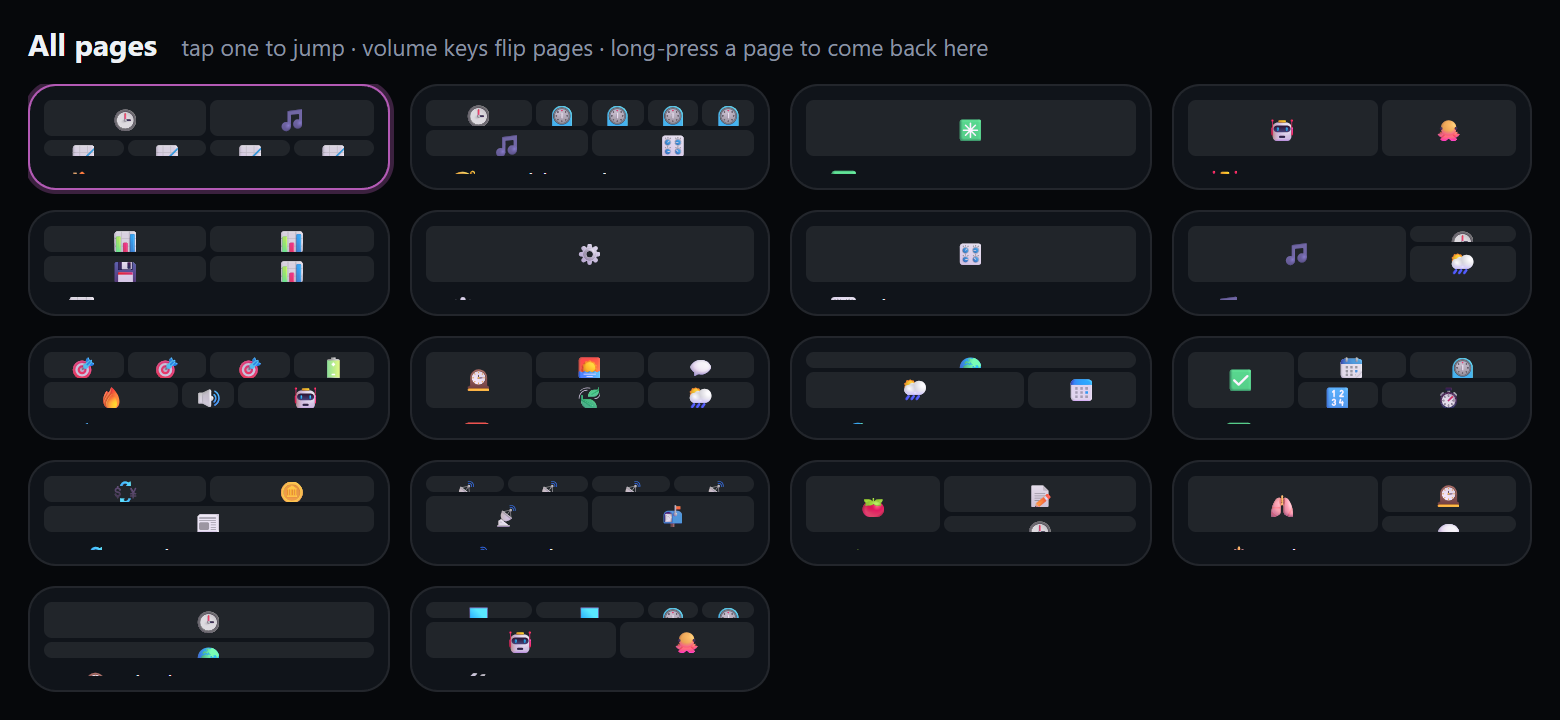
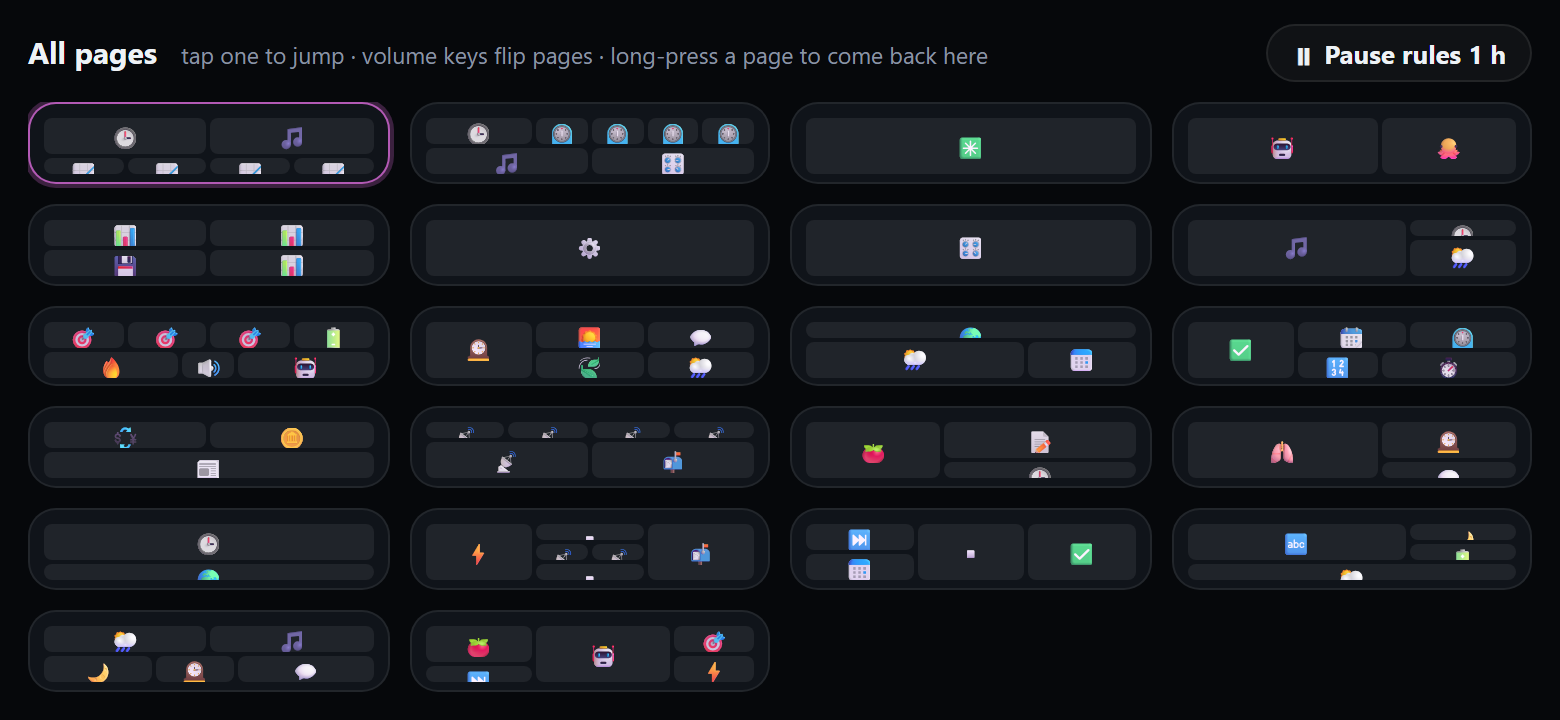
Screenshots of the new templates and the page overview; Next up fits two rows; web demo has every template

diff --git a/tools/pages/demo.js b/tools/pages/demo.js
@@ -18,7 +18,7 @@
     ['snip', 'Snip', '✂', '#14b8a6'], ['taskmgr', 'Task Manager', '📊', '#22c55e'], ['mute', 'Mute', '🔇', '#f59e0b'],
     ['screenoff', 'Screen Off', '🌙', '#8b5cf6'], ['lock', 'Lock', '🔒', '#ef4444'], ['settings', 'Settings', '⚙', '#94a3b8'],
   ].map(([id, label, icon, color]) => ({ id, label, icon, color, cmd: id === 'mute' ? 'builtin:mute' : 'demo' }));
-  const PAGES = ['home', 'dashboard', 'ai', 'work', 'system', 'procs', 'deck', 'music', 'status', 'ambient', 'world', 'daily', 'markets', 'feeds', 'focus', 'calm', 'clock', 'automation', 'planner', 'nightstand'];
+  const PAGES = ['home', 'dashboard', 'ai', 'work', 'system', 'procs', 'deck', 'music', 'status', 'ambient', 'world', 'daily', 'markets', 'feeds', 'focus', 'calm', 'clock', 'automation', 'planner', 'nightstand', 'weekend', 'focuswork'];
 
   let catalog = null;
   async function loadCatalog() {

diff --git a/android/app/src/main/assets/www/style.css b/android/app/src/main/assets/www/style.css
@@ -836,6 +836,8 @@ body.night #night { display: flex; }
 .nu-meta { font-size: 12.5px; color: var(--muted); white-space: nowrap; overflow: hidden; text-overflow: ellipsis; margin-top: auto; }
 .nu-track { margin-top: 6px; }
 .nu-track i { background: var(--nu, rgb(var(--ambient))); }
+.w-nextup > :not(.nu-title) { flex-shrink: 0; }
+@container (max-height: 110px) { .w-nextup .w-title { display: none; } .nu-title { -webkit-line-clamp: 1; font-size: clamp(15px, 14cqh, 22px); } .nu-meta { margin-top: 0; } .nu-track { margin-top: auto; } }
 
 /* ---------- moon ---------- */
 .mo-body { flex: 1; min-height: 0; display: flex; align-items: center; gap: 12px; }

diff --git a/README.md b/README.md
@@ -119,10 +119,13 @@ Every page is a 12 × 6 grid. Start a page from one of the 23 templates (or from
 | <img src="docs/screenshots/daily.png" alt="Daily"> | <img src="docs/screenshots/world.png" alt="World"> |
 | **Music** — a big now-playing card | **Shortcuts** — Stream Deck–style keys |
 | <img src="docs/screenshots/music.png" alt="Music"> | <img src="docs/screenshots/deck.png" alt="Shortcuts"> |
+| **Planner** — next up, month, agenda, checklist | **Automation** — rules, on air, pushed values, device batteries, notifications |
+| <img src="docs/screenshots/planner.png" alt="Planner"> | <img src="docs/screenshots/automation.png" alt="Automation"> |
+| **Nightstand** — word clock, moon, battery care, next hours | **Deep work** — pomodoro, next up, sessions, quota ring, rules |
+| <img src="docs/screenshots/nightstand.png" alt="Nightstand"> | <img src="docs/screenshots/deepwork.png" alt="Deep work"> |
 
-More templates: **Clock**, **Focus** (pomodoro + note), **Calm** (breathing), **DevOps** (command widgets),
-**Nightstand** (word clock, moon, battery care), **Planner** (next up, month, agenda, checklist), **Automation** (rules,
-on air, pushed values, inbox), **Weekend** and **Deep work**.
+More templates: **Clock**, **Focus** (pomodoro + note), **Calm** (breathing), **DevOps** (command widgets) and
+**Weekend** (forecast, music, moon, analog clock, quote).
 
 **Getting around.** Swipe; press the phone's **volume keys** to flip pages; tap the page dots (or long-press an empty
 spot) for an overview of all pages and jump straight to one. Webhooks and rules can switch pages too; they count down

diff --git a/CHANGELOG.md b/CHANGELOG.md
@@ -1,5 +1,11 @@
 # Changelog
 
+## Unreleased
+
+- The Next up widget no longer squeezes its title into the time line when it is only two rows high (Deep work
+  template); it drops its heading and keeps the title on one line instead.
+- The web demo includes the Weekend and Deep work templates.
+
 ## 0.6.4 — 2026-11-08
 
 **Calm page switching.** Rules, webhooks and the idle return no longer jump between pages. The phone shows
